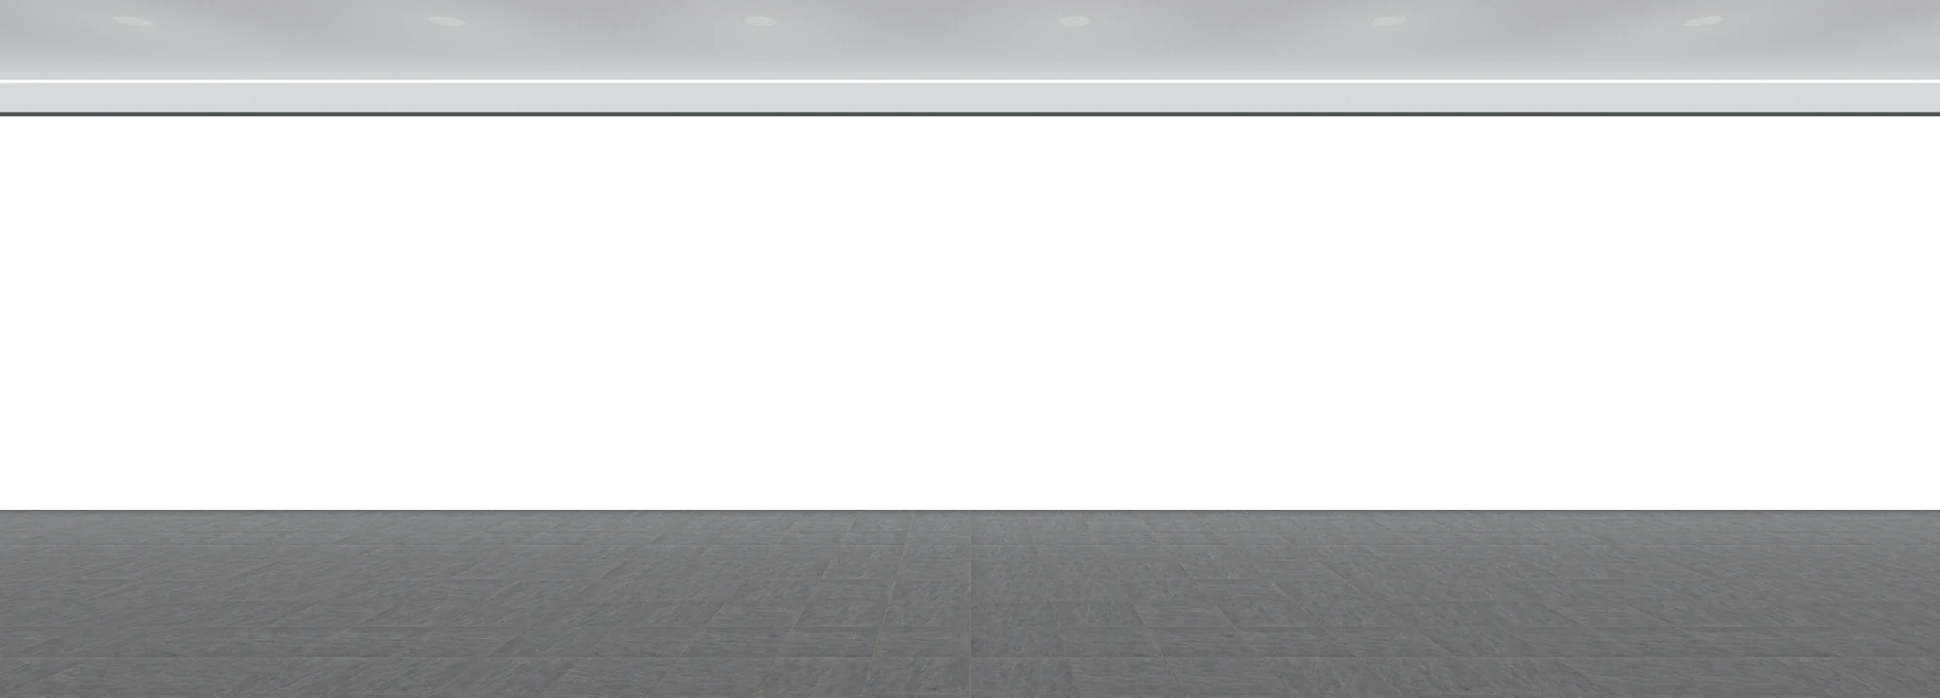
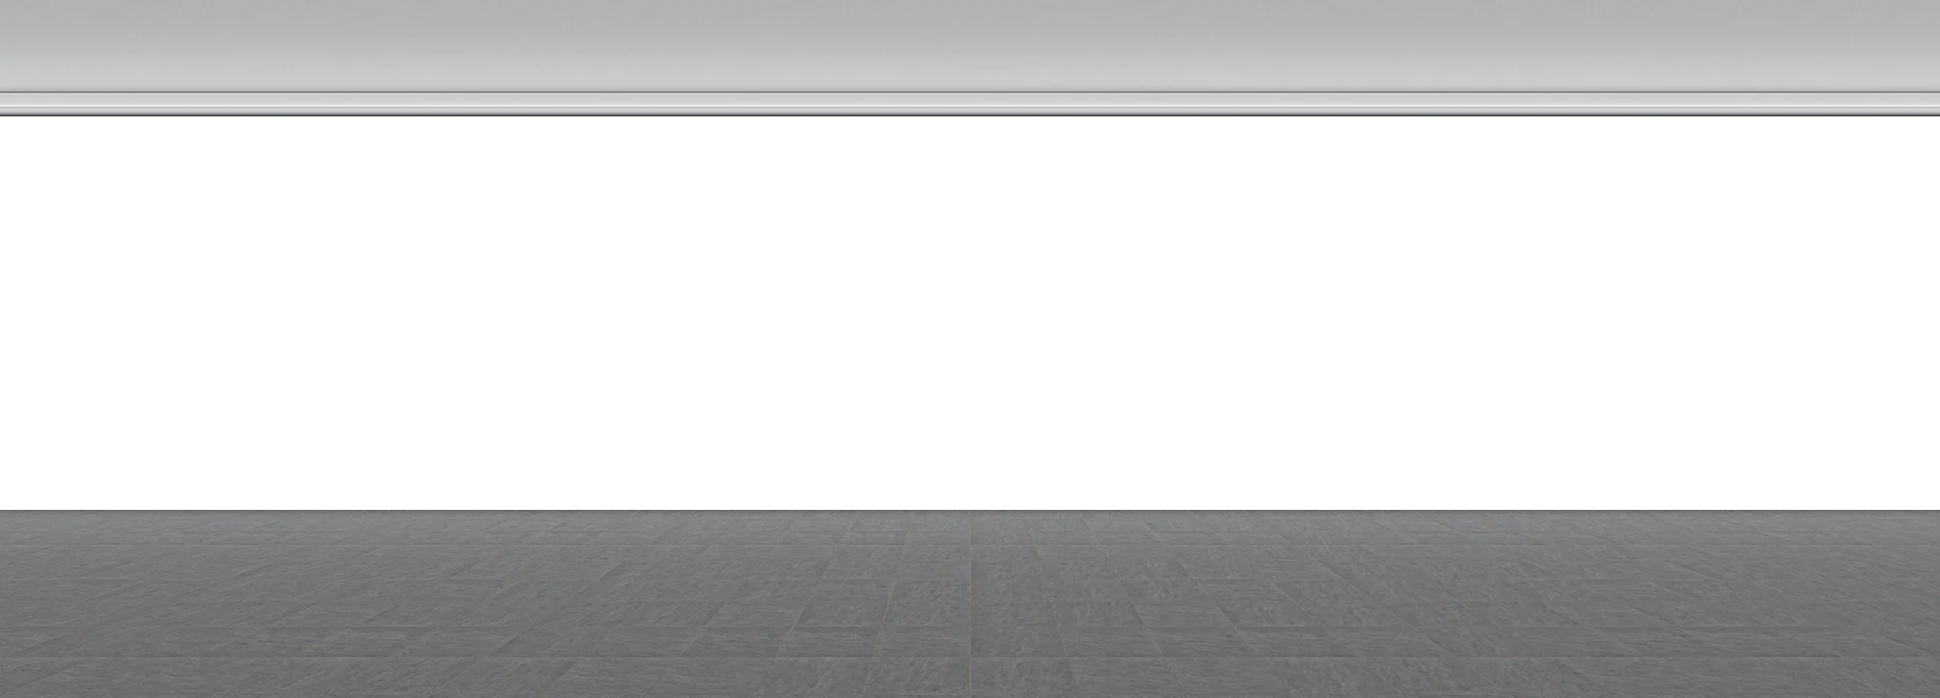
Hall : vitre et cadre agrandis, retombée de plafond détaillée, météo à côté du ciel
- La vitre gagne en hauteur sur le plafond ; le hall est un peu plus grand.
- Retombée au-dessus de la baie : plâtre, joint creux, ligne de lumière
  encastrée et profilé d'aluminium de la tête de baie.
- Widget : température et condition juste après la vignette de ciel, puis
  l'heure et la ville, puis l'activité.

Changed region(s): [[0.0, 0.0917, 1.0, 0.1833]]

diff --git a/assets/hall-realiste.css b/assets/hall-realiste.css
@@ -316,7 +316,7 @@
 @media(min-width:1000px) {
   .hall.en-volume {
     /* Le hall, sa barre de rubriques et l'en-tête tiennent ensemble dans la fenêtre. */
-    --eb-hall-hauteur: clamp(360px, calc(100svh - var(--entete-h, 136px) - 210px), 600px);
+    --eb-hall-hauteur: clamp(350px, calc(100svh - var(--entete-h, 136px) - 194px), 620px);
     /* Vue rapprochée : la photo est agrandie et le haut de la verrière recadré. */
     --hall-zoom: 1.3;
     /* Largeur de porte rapportée à sa hauteur, et espace égal entre porte et panneau. */
@@ -334,13 +334,13 @@
   .hall.en-volume .hall-espace::before,
   .hall.en-volume .hall-espace::after { content: none; }
   .hall.en-volume .hall-univers {
-    /* Le haut de la vue reste fixe : une bande de plafond (depuis y=70) au-dessus de la baie ;
+    /* Le haut de la vue reste fixe : une fine bande de plafond (depuis y=88) au-dessus de la baie ;
        le sol s'allonge ou se raccourcit selon la hauteur disponible. */
-    --px: max(calc(100cqw / 1850), calc(100cqh / 600));
+    --px: max(calc(100cqw / 1850), calc(100cqh / 575));
     --iw: calc(var(--px) * 2000);
     --ih: calc(var(--px) * 720);
     --ix: calc((100cqw - var(--iw)) / 2);
-    --iy: calc(var(--px) * -70);
+    --iy: calc(var(--px) * -88);
     --verre-haut: calc(var(--iy) + var(--px) * 120);
     --mur-haut: calc(var(--iy) + var(--px) * var(--hall-porte-haut));
     --mur-bas: calc(var(--iy) + var(--px) * 526);
@@ -630,18 +630,24 @@
 .direct-montreal .i-flocon { fill: #fff; animation: direct-neige 2.4s ease-in-out infinite; }
 .direct-montreal .i-eclair { fill: #ffd34a; animation: direct-eclair 3.5s linear infinite; }
 .direct-montreal .i-brume { fill: #f2f5f8; opacity: .9; }
-.direct-montreal .direct-texte { display: grid; gap: 3px; }
+.direct-montreal .direct-texte,
+.direct-montreal .direct-meteo { display: grid; gap: 3px; align-content: center; }
 .direct-montreal .direct-heure {
   font: 400 19px/1 var(--serif, Georgia, serif);
   letter-spacing: -.01em;
   font-variant-numeric: tabular-nums lining-nums;
   color: var(--ink-deep, #0f3142);
 }
-.direct-montreal .direct-sous { display: flex; gap: 6px; font-size: 11.5px; color: var(--muted, #56707a); }
-.direct-montreal .direct-ville { font-weight: 600; color: var(--ink, #173f52); }
+.direct-montreal .direct-ville { font-size: 11.5px; font-weight: 600; color: var(--muted, #56707a); }
+.direct-montreal .direct-meteo { margin-inline-start: -2px; }
 .direct-montreal .direct-meteo[hidden] { display: none; }
-.direct-montreal .direct-meteo::before { content: "·"; margin-inline-end: 6px; opacity: .6; }
-.direct-montreal .direct-temp { font-weight: 600; font-variant-numeric: tabular-nums; color: var(--ink, #173f52); }
+.direct-montreal .direct-meteo[hidden] + .direct-filet { display: none; }
+.direct-montreal .direct-temp {
+  font: 400 19px/1 var(--serif, Georgia, serif);
+  font-variant-numeric: tabular-nums lining-nums;
+  color: var(--ink-deep, #0f3142);
+}
+.direct-montreal .direct-cond { font-size: 11.5px; color: var(--muted, #56707a); }
 .direct-montreal .direct-filet { width: 1px; height: 30px; background: linear-gradient(180deg,transparent,rgba(23,63,82,.22),transparent); }
 .direct-montreal .direct-activite { display: inline-flex; align-items: center; gap: 9px; font-weight: 600; color: var(--ink-deep, #0f3142); }
 .direct-montreal .direct-point {

diff --git a/ru/index.html b/ru/index.html
@@ -17,7 +17,7 @@
 <link rel="alternate" hreflang="x-default" href="https://erjb-web.github.io/">
 <link rel="icon" href="../assets/favicon.svg?v=3fa5b764af" type="image/svg+xml">
 <link rel="stylesheet" href="../assets/site.css?v=menuiserie-realiste-20261016b">
-<link rel="stylesheet" href="../assets/hall-realiste.css?v=fa6f2294a5">
+<link rel="stylesheet" href="../assets/hall-realiste.css?v=56bc99e3be">
 <link rel="stylesheet" href="../assets/vulgarisation-studio.css?v=20261015studio5">
 <link rel="stylesheet" href="../assets/vulgarisation-editorial.css?v=20261015editorial4">
 <link rel="stylesheet" href="../assets/revue-presse.css?v=c4a0e14e02">
@@ -29,8 +29,8 @@
 <meta property="og:locale" content="ru_RU">
 <meta name="twitter:card" content="summary_large_image">
 <script type="application/ld+json">{"@context":"https://schema.org","@type":"Person","name":"Éric Bernier","url":"https://erjb-web.github.io/","image":"https://erjb-web.github.io/assets/portrait.jpg","jobTitle":"Аспирант по общественному здравоохранению · ESPUM · CRCHUM","email":"mailto:eric.bernier.1@umontreal.ca","affiliation":[{"@type":"CollegeOrUniversity","name":"École de santé publique de l’Université de Montréal (ESPUM)"},{"@type":"ResearchOrganization","name":"Centre de recherche du CHUM (CRCHUM)"}],"alumniOf":[{"@type":"CollegeOrUniversity","name":"Université Paris Panthéon-Assas"},{"@type":"CollegeOrUniversity","name":"Université de Bretagne Occidentale"}],"knowsAbout":["Управление и оценка политики здравоохранения","Межсекторальный подход в первичной медицинской помощи","Старение, утрата самостоятельности и политика поддержки жизни дома"],"sameAs":["https://orcid.org/0009-0001-4236-4932"]}</script>
-<script src="../assets/hall-marche.js?v=aaad2f7133" defer></script>
-<script src="../assets/hall-ciel.js?v=57a23f932b" defer></script>
+<script src="../assets/hall-marche.js?v=21c8cd6666" defer></script>
+<script src="../assets/hall-ciel.js?v=f032ae25d2" defer></script>
 <script src="../assets/site.js?v=fbb0a31b2f" defer></script>
 <script src="../assets/revue-presse.js?v=745065b0a6" defer></script>
 <script src="../assets/vulgarisation-studio.js?v=quizfix20261016" defer></script>

diff --git a/ar/index.html b/ar/index.html
@@ -17,7 +17,7 @@
 <link rel="alternate" hreflang="x-default" href="https://erjb-web.github.io/">
 <link rel="icon" href="../assets/favicon.svg?v=3fa5b764af" type="image/svg+xml">
 <link rel="stylesheet" href="../assets/site.css?v=menuiserie-realiste-20261016b">
-<link rel="stylesheet" href="../assets/hall-realiste.css?v=fa6f2294a5">
+<link rel="stylesheet" href="../assets/hall-realiste.css?v=56bc99e3be">
 <link rel="stylesheet" href="../assets/vulgarisation-studio.css?v=20261015studio5">
 <link rel="stylesheet" href="../assets/vulgarisation-editorial.css?v=20261015editorial4">
 <link rel="stylesheet" href="../assets/revue-presse.css?v=c4a0e14e02">
@@ -29,8 +29,8 @@
 <meta property="og:locale" content="ar_AR">
 <meta name="twitter:card" content="summary_large_image">
 <script type="application/ld+json">{"@context":"https://schema.org","@type":"Person","name":"Éric Bernier","url":"https://erjb-web.github.io/","image":"https://erjb-web.github.io/assets/portrait.jpg","jobTitle":"طالب دكتوراه في الصحة العامة · ESPUM · CRCHUM","email":"mailto:eric.bernier.1@umontreal.ca","affiliation":[{"@type":"CollegeOrUniversity","name":"École de santé publique de l’Université de Montréal (ESPUM)"},{"@type":"ResearchOrganization","name":"Centre de recherche du CHUM (CRCHUM)"}],"alumniOf":[{"@type":"CollegeOrUniversity","name":"Université Paris Panthéon-Assas"},{"@type":"CollegeOrUniversity","name":"Université de Bretagne Occidentale"}],"knowsAbout":["حوكمة السياسات الصحية وتقييمها","المقاربة المشتركة بين القطاعات في خط الرعاية الأول","الشيخوخة وفقدان الاستقلالية وسياسات دعم البقاء في المنزل"],"sameAs":["https://orcid.org/0009-0001-4236-4932"]}</script>
-<script src="../assets/hall-marche.js?v=aaad2f7133" defer></script>
-<script src="../assets/hall-ciel.js?v=57a23f932b" defer></script>
+<script src="../assets/hall-marche.js?v=21c8cd6666" defer></script>
+<script src="../assets/hall-ciel.js?v=f032ae25d2" defer></script>
 <script src="../assets/site.js?v=fbb0a31b2f" defer></script>
 <script src="../assets/revue-presse.js?v=745065b0a6" defer></script>
 <script src="../assets/vulgarisation-studio.js?v=quizfix20261016" defer></script>

diff --git a/innu/index.html b/innu/index.html
@@ -17,7 +17,7 @@
 <link rel="alternate" hreflang="x-default" href="https://erjb-web.github.io/">
 <link rel="icon" href="../assets/favicon.svg?v=3fa5b764af" type="image/svg+xml">
 <link rel="stylesheet" href="../assets/site.css?v=implantation20261015a">
-<link rel="stylesheet" href="../assets/hall-realiste.css?v=fa6f2294a5">
+<link rel="stylesheet" href="../assets/hall-realiste.css?v=56bc99e3be">
 <link rel="stylesheet" href="../assets/revue-presse.css?v=c4a0e14e02">
 <meta property="og:type" content="profile">
 <meta property="og:title" content="Éric Bernier · Innu-aimun">
@@ -27,8 +27,8 @@
 <meta property="og:locale" content="fr_CA">
 <meta name="twitter:card" content="summary_large_image">
 <script type="application/ld+json">{"@context":"https://schema.org","@type":"Person","name":"Éric Bernier","url":"https://erjb-web.github.io/","image":"https://erjb-web.github.io/assets/portrait.jpg","jobTitle":"Doctorant en santé publique · ESPUM · CRCHUM","email":"mailto:eric.bernier.1@umontreal.ca","affiliation":[{"@type":"CollegeOrUniversity","name":"École de santé publique de l’Université de Montréal (ESPUM)"},{"@type":"ResearchOrganization","name":"Centre de recherche du CHUM (CRCHUM)"}],"alumniOf":[{"@type":"CollegeOrUniversity","name":"Université Paris Panthéon-Assas"},{"@type":"CollegeOrUniversity","name":"Université de Bretagne Occidentale"}],"knowsAbout":["Gouvernance et évaluation des politiques de santé","Approche intersectorielle en première ligne","Vieillissement, perte d’autonomie et politiques du maintien à domicile"],"sameAs":["https://orcid.org/0009-0001-4236-4932"]}</script>
-<script src="../assets/hall-marche.js?v=aaad2f7133" defer></script>
-<script src="../assets/hall-ciel.js?v=57a23f932b" defer></script>
+<script src="../assets/hall-marche.js?v=21c8cd6666" defer></script>
+<script src="../assets/hall-ciel.js?v=f032ae25d2" defer></script>
 <script src="../assets/site.js?v=fbb0a31b2f" defer></script>
 <script src="../assets/revue-presse.js?v=745065b0a6" defer></script>
 <script src="../assets/audience.js?v=32f18e181a" data-audience-website-id="782c7df7-c2cf-4578-bddc-fa02662324af" data-audience-domaines="erjb-web.github.io" defer></script>

diff --git a/iu/index.html b/iu/index.html
@@ -17,7 +17,7 @@
 <link rel="alternate" hreflang="x-default" href="https://erjb-web.github.io/">
 <link rel="icon" href="../assets/favicon.svg?v=3fa5b764af" type="image/svg+xml">
 <link rel="stylesheet" href="../assets/site.css?v=implantation20261015a">
-<link rel="stylesheet" href="../assets/hall-realiste.css?v=fa6f2294a5">
+<link rel="stylesheet" href="../assets/hall-realiste.css?v=56bc99e3be">
 <link rel="stylesheet" href="../assets/revue-presse.css?v=c4a0e14e02">
 <meta property="og:type" content="profile">
 <meta property="og:title" content="Éric Bernier · Inuktitut">
@@ -27,8 +27,8 @@
 <meta property="og:locale" content="fr_CA">
 <meta name="twitter:card" content="summary_large_image">
 <script type="application/ld+json">{"@context":"https://schema.org","@type":"Person","name":"Éric Bernier","url":"https://erjb-web.github.io/","image":"https://erjb-web.github.io/assets/portrait.jpg","jobTitle":"Doctorant en santé publique · ESPUM · CRCHUM","email":"mailto:eric.bernier.1@umontreal.ca","affiliation":[{"@type":"CollegeOrUniversity","name":"École de santé publique de l’Université de Montréal (ESPUM)"},{"@type":"ResearchOrganization","name":"Centre de recherche du CHUM (CRCHUM)"}],"alumniOf":[{"@type":"CollegeOrUniversity","name":"Université Paris Panthéon-Assas"},{"@type":"CollegeOrUniversity","name":"Université de Bretagne Occidentale"}],"knowsAbout":["Gouvernance et évaluation des politiques de santé","Approche intersectorielle en première ligne","Vieillissement, perte d’autonomie et politiques du maintien à domicile"],"sameAs":["https://orcid.org/0009-0001-4236-4932"]}</script>
-<script src="../assets/hall-marche.js?v=aaad2f7133" defer></script>
-<script src="../assets/hall-ciel.js?v=57a23f932b" defer></script>
+<script src="../assets/hall-marche.js?v=21c8cd6666" defer></script>
+<script src="../assets/hall-ciel.js?v=f032ae25d2" defer></script>
 <script src="../assets/site.js?v=fbb0a31b2f" defer></script>
 <script src="../assets/revue-presse.js?v=745065b0a6" defer></script>
 <script src="../assets/audience.js?v=32f18e181a" data-audience-website-id="782c7df7-c2cf-4578-bddc-fa02662324af" data-audience-domaines="erjb-web.github.io" defer></script>

diff --git a/es/index.html b/es/index.html
@@ -17,7 +17,7 @@
 <link rel="alternate" hreflang="x-default" href="https://erjb-web.github.io/">
 <link rel="icon" href="../assets/favicon.svg?v=3fa5b764af" type="image/svg+xml">
 <link rel="stylesheet" href="../assets/site.css?v=menuiserie-realiste-20261016b">
-<link rel="stylesheet" href="../assets/hall-realiste.css?v=fa6f2294a5">
+<link rel="stylesheet" href="../assets/hall-realiste.css?v=56bc99e3be">
 <link rel="stylesheet" href="../assets/vulgarisation-studio.css?v=20261015studio5">
 <link rel="stylesheet" href="../assets/vulgarisation-editorial.css?v=20261015editorial4">
 <link rel="stylesheet" href="../assets/revue-presse.css?v=c4a0e14e02">
@@ -29,8 +29,8 @@
 <meta property="og:locale" content="es_ES">
 <meta name="twitter:card" content="summary_large_image">
 <script type="application/ld+json">{"@context":"https://schema.org","@type":"Person","name":"Éric Bernier","url":"https://erjb-web.github.io/","image":"https://erjb-web.github.io/assets/portrait.jpg","jobTitle":"Doctorando en salud pública · ESPUM · CRCHUM","email":"mailto:eric.bernier.1@umontreal.ca","affiliation":[{"@type":"CollegeOrUniversity","name":"École de santé publique de l’Université de Montréal (ESPUM)"},{"@type":"ResearchOrganization","name":"Centre de recherche du CHUM (CRCHUM)"}],"alumniOf":[{"@type":"CollegeOrUniversity","name":"Université Paris Panthéon-Assas"},{"@type":"CollegeOrUniversity","name":"Université de Bretagne Occidentale"}],"knowsAbout":["Gobernanza y evaluación de las políticas de salud","Enfoque intersectorial en atención primaria","Envejecimiento, pérdida de autonomía y políticas de permanencia en el domicilio"],"sameAs":["https://orcid.org/0009-0001-4236-4932"]}</script>
-<script src="../assets/hall-marche.js?v=aaad2f7133" defer></script>
-<script src="../assets/hall-ciel.js?v=57a23f932b" defer></script>
+<script src="../assets/hall-marche.js?v=21c8cd6666" defer></script>
+<script src="../assets/hall-ciel.js?v=f032ae25d2" defer></script>
 <script src="../assets/site.js?v=fbb0a31b2f" defer></script>
 <script src="../assets/revue-presse.js?v=745065b0a6" defer></script>
 <script src="../assets/vulgarisation-studio.js?v=quizfix20261016" defer></script>

diff --git a/en/index.html b/en/index.html
@@ -17,7 +17,7 @@
 <link rel="alternate" hreflang="x-default" href="https://erjb-web.github.io/">
 <link rel="icon" href="../assets/favicon.svg?v=3fa5b764af" type="image/svg+xml">
 <link rel="stylesheet" href="../assets/site.css?v=menuiserie-realiste-20261016b">
-<link rel="stylesheet" href="../assets/hall-realiste.css?v=fa6f2294a5">
+<link rel="stylesheet" href="../assets/hall-realiste.css?v=56bc99e3be">
 <link rel="stylesheet" href="../assets/vulgarisation-studio.css?v=20261015studio5">
 <link rel="stylesheet" href="../assets/vulgarisation-editorial.css?v=20261015editorial4">
 <link rel="stylesheet" href="../assets/revue-presse.css?v=c4a0e14e02">
@@ -29,8 +29,8 @@
 <meta property="og:locale" content="en_CA">
 <meta name="twitter:card" content="summary_large_image">
 <script type="application/ld+json">{"@context":"https://schema.org","@type":"Person","name":"Éric Bernier","url":"https://erjb-web.github.io/","image":"https://erjb-web.github.io/assets/portrait.jpg","jobTitle":"PhD student in public health · ESPUM · CRCHUM","email":"mailto:eric.bernier.1@umontreal.ca","affiliation":[{"@type":"CollegeOrUniversity","name":"École de santé publique de l’Université de Montréal (ESPUM)"},{"@type":"ResearchOrganization","name":"Centre de recherche du CHUM (CRCHUM)"}],"alumniOf":[{"@type":"CollegeOrUniversity","name":"Université Paris Panthéon-Assas"},{"@type":"CollegeOrUniversity","name":"Université de Bretagne Occidentale"}],"knowsAbout":["Governance and evaluation of health policy","Intersectoral approaches in primary care","Ageing, loss of autonomy and ageing-in-place policies"],"sameAs":["https://orcid.org/0009-0001-4236-4932"]}</script>
-<script src="../assets/hall-marche.js?v=aaad2f7133" defer></script>
-<script src="../assets/hall-ciel.js?v=57a23f932b" defer></script>
+<script src="../assets/hall-marche.js?v=21c8cd6666" defer></script>
+<script src="../assets/hall-ciel.js?v=f032ae25d2" defer></script>
 <script src="../assets/site.js?v=fbb0a31b2f" defer></script>
 <script src="../assets/revue-presse.js?v=745065b0a6" defer></script>
 <script src="../assets/vulgarisation-studio.js?v=quizfix20261016" defer></script>

diff --git a/index.html b/index.html
@@ -17,7 +17,7 @@
 <link rel="alternate" hreflang="x-default" href="https://erjb-web.github.io/">
 <link rel="icon" href="assets/favicon.svg?v=3fa5b764af" type="image/svg+xml">
 <link rel="stylesheet" href="assets/site.css?v=alignement-portes-20261016e">
-<link rel="stylesheet" href="assets/hall-realiste.css?v=fa6f2294a5">
+<link rel="stylesheet" href="assets/hall-realiste.css?v=56bc99e3be">
 <link rel="stylesheet" href="assets/vulgarisation-studio.css?v=20261015studio5">
 <link rel="stylesheet" href="assets/vulgarisation-editorial.css?v=20261015editorial4">
 <link rel="stylesheet" href="assets/revue-presse.css?v=c4a0e14e02">
@@ -29,8 +29,8 @@
 <meta property="og:locale" content="fr_FR">
 <meta name="twitter:card" content="summary_large_image">
 <script type="application/ld+json">{"@context":"https://schema.org","@type":"Person","name":"Éric Bernier","url":"https://erjb-web.github.io/","image":"https://erjb-web.github.io/assets/portrait.jpg","jobTitle":"Doctorant en santé publique · ESPUM · CRCHUM","email":"mailto:eric.bernier.1@umontreal.ca","affiliation":[{"@type":"CollegeOrUniversity","name":"École de santé publique de l’Université de Montréal (ESPUM)"},{"@type":"ResearchOrganization","name":"Centre de recherche du CHUM (CRCHUM)"}],"alumniOf":[{"@type":"CollegeOrUniversity","name":"Université Paris Panthéon-Assas"},{"@type":"CollegeOrUniversity","name":"Université de Bretagne Occidentale"}],"knowsAbout":["Gouvernance et évaluation des politiques de santé","Approche intersectorielle en première ligne","Vieillissement, perte d’autonomie et politiques du maintien à domicile"],"sameAs":["https://orcid.org/0009-0001-4236-4932"]}</script>
-<script src="assets/hall-marche.js?v=aaad2f7133" defer></script>
-<script src="assets/hall-ciel.js?v=57a23f932b" defer></script>
+<script src="assets/hall-marche.js?v=21c8cd6666" defer></script>
+<script src="assets/hall-ciel.js?v=f032ae25d2" defer></script>
 <script src="assets/site.js?v=fbb0a31b2f" defer></script>
 <script src="assets/revue-presse.js?v=745065b0a6" defer></script>
 <script src="assets/vulgarisation-studio.js?v=quizfix20261016" defer></script>

diff --git a/zh/index.html b/zh/index.html
@@ -17,7 +17,7 @@
 <link rel="alternate" hreflang="x-default" href="https://erjb-web.github.io/">
 <link rel="icon" href="../assets/favicon.svg?v=3fa5b764af" type="image/svg+xml">
 <link rel="stylesheet" href="../assets/site.css?v=menuiserie-realiste-20261016b">
-<link rel="stylesheet" href="../assets/hall-realiste.css?v=fa6f2294a5">
+<link rel="stylesheet" href="../assets/hall-realiste.css?v=56bc99e3be">
 <link rel="stylesheet" href="../assets/vulgarisation-studio.css?v=20261015studio5">
 <link rel="stylesheet" href="../assets/vulgarisation-editorial.css?v=20261015editorial4">
 <link rel="stylesheet" href="../assets/revue-presse.css?v=c4a0e14e02">
@@ -29,8 +29,8 @@
 <meta property="og:locale" content="zh_CN">
 <meta name="twitter:card" content="summary_large_image">
 <script type="application/ld+json">{"@context":"https://schema.org","@type":"Person","name":"Éric Bernier","url":"https://erjb-web.github.io/","image":"https://erjb-web.github.io/assets/portrait.jpg","jobTitle":"公共卫生博士研究生 · ESPUM · CRCHUM","email":"mailto:eric.bernier.1@umontreal.ca","affiliation":[{"@type":"CollegeOrUniversity","name":"École de santé publique de l’Université de Montréal (ESPUM)"},{"@type":"ResearchOrganization","name":"Centre de recherche du CHUM (CRCHUM)"}],"alumniOf":[{"@type":"CollegeOrUniversity","name":"Université Paris Panthéon-Assas"},{"@type":"CollegeOrUniversity","name":"Université de Bretagne Occidentale"}],"knowsAbout":["卫生政策的治理与评估","第一线服务中的跨部门方法","老龄化、失能与居家养老政策"],"sameAs":["https://orcid.org/0009-0001-4236-4932"]}</script>
-<script src="../assets/hall-marche.js?v=aaad2f7133" defer></script>
-<script src="../assets/hall-ciel.js?v=57a23f932b" defer></script>
+<script src="../assets/hall-marche.js?v=21c8cd6666" defer></script>
+<script src="../assets/hall-ciel.js?v=f032ae25d2" defer></script>
 <script src="../assets/site.js?v=fbb0a31b2f" defer></script>
 <script src="../assets/revue-presse.js?v=745065b0a6" defer></script>
 <script src="../assets/vulgarisation-studio.js?v=quizfix20261016" defer></script>

diff --git a/assets/hall-ciel.js b/assets/hall-ciel.js
@@ -122,8 +122,9 @@ const ebMeteoMontreal = (() => {
     p.className = "direct-montreal " + classe;
     p.setAttribute("aria-label", T.etiquette);
     p.innerHTML = '<span class="direct-ciel" aria-hidden="true"><span class="direct-etoiles"></span><svg viewBox="0 0 24 24"></svg></span>'
-      + '<span class="direct-texte"><time class="direct-heure"></time>'
-      + '<span class="direct-sous"><span class="direct-ville"></span><span class="direct-meteo"><span class="direct-temp"></span> <span class="direct-cond"></span></span></span></span>'
+      + '<span class="direct-meteo"><span class="direct-temp"></span><span class="direct-cond"></span></span>'
+      + '<span class="direct-filet" aria-hidden="true"></span>'
+      + '<span class="direct-texte"><time class="direct-heure"></time><span class="direct-ville"></span></span>'
       + '<span class="direct-filet" aria-hidden="true"></span>'
       + '<span class="direct-activite"><span class="direct-point" aria-hidden="true"></span><span class="direct-statut"></span></span>';
     return p;
@@ -162,7 +163,7 @@ const ebMeteoMontreal = (() => {
       if (meteo && Number.isFinite(Number(meteo.temperature_2m))) {
         const degres = Math.round(Number(meteo.temperature_2m));
         l.querySelector(".direct-temp").textContent = `${degres === 0 ? 0 : degres}\u00a0°C`;
-        l.querySelector(".direct-cond").textContent = ["fr", "en", "es", "ru"].includes(codeLangue) ? T.meteo[nom].charAt(0).toLowerCase() + T.meteo[nom].slice(1) : T.meteo[nom];
+        l.querySelector(".direct-cond").textContent = T.meteo[nom];
       }
     }
   }

diff --git a/falc/index.html b/falc/index.html
@@ -9,9 +9,9 @@
 <link rel="canonical" href="https://erjb-web.github.io/falc/">
 <link rel="icon" href="../assets/favicon.svg?v=3fa5b764af" type="image/svg+xml">
 <link rel="stylesheet" href="../assets/site.css?v=hallwall20261015c">
-<link rel="stylesheet" href="../assets/hall-realiste.css?v=fa6f2294a5">
-<script src="../assets/hall-marche.js?v=aaad2f7133" defer></script>
-<script src="../assets/hall-ciel.js?v=57a23f932b" defer></script>
+<link rel="stylesheet" href="../assets/hall-realiste.css?v=56bc99e3be">
+<script src="../assets/hall-marche.js?v=21c8cd6666" defer></script>
+<script src="../assets/hall-ciel.js?v=f032ae25d2" defer></script>
 <script src="../assets/site.js?v=fbb0a31b2f" defer></script>
 <script src="../assets/audience.js?v=32f18e181a" data-audience-website-id="782c7df7-c2cf-4578-bddc-fa02662324af" data-audience-domaines="erjb-web.github.io" defer></script>
 </head>

diff --git a/assets/hall-marche.js b/assets/hall-marche.js
@@ -16,7 +16,7 @@ window.creerMarcheHall=({hall,scene,monde,stations,surSelection})=>{
   if(w!==largeurVue||h!==hauteurVue){
    largeurVue=w;hauteurVue=h;
    // La baie occupe toute la largeur de l'image (2000 px de large).
-   const px=Math.max(w/1850,h/600),ix=(w-2000*px)/2;
+   const px=Math.max(w/1850,h/575),ix=(w-2000*px)/2;
    const style=getComputedStyle(hall),porte=(526-(parseFloat(style.getPropertyValue('--hall-porte-haut'))||202))*px*(parseFloat(style.getPropertyValue('--hall-porte-ratio'))||.454);
    const espace=parseFloat(style.getPropertyValue('--hall-ecart'))||30;
    largeur=Math.round(porte+espace+Math.min(320,Math.max(280,w*.24)));pas=largeur+espace;
